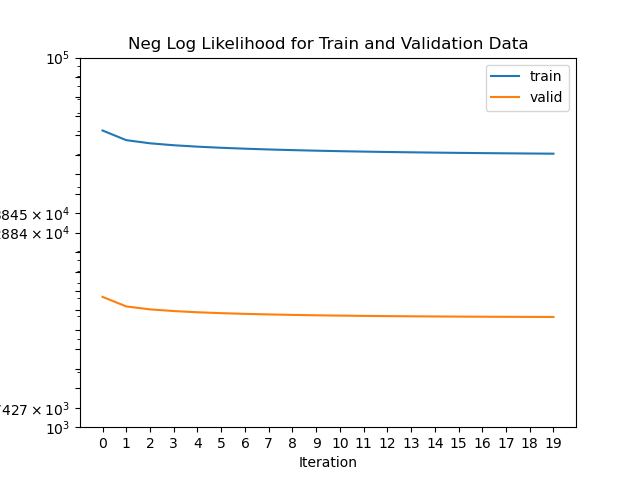
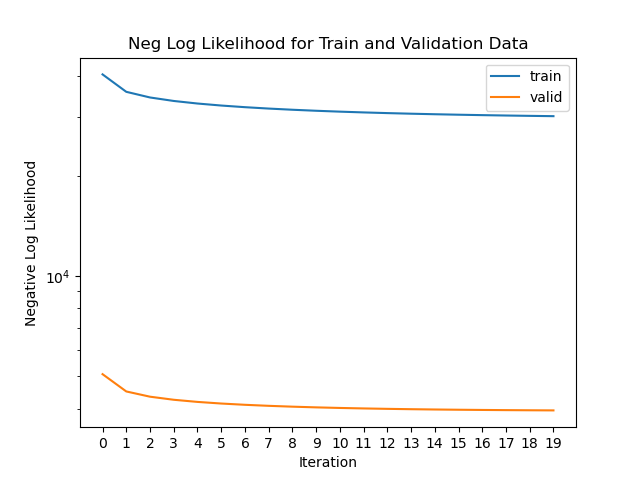
add figures

diff --git a/part_a/neural_network.py b/part_a/neural_network.py
@@ -177,36 +177,36 @@ def main():
     # Set model hyperparameters.
     # Q2c
     num_question = train_matrix.shape[1]
-    k_list = [10, 50, 100, 200, 500]
-    lr_list = [0.001, 0.01, 0.1]
-    num_epoch_list = [5, 20, 40]
-    fig, ax = plt.subplots(nrows=len(num_epoch_list), ncols=len(lr_list), figsize=(18,12))
-    for i, num_epoch in enumerate(num_epoch_list):
-        for j, lr in enumerate(lr_list):
-            for k in k_list:
-                model = AutoEncoder(num_question, k)
-                # Set optimization hyperparameters.
-                epochs, train_losses, val_accs = train(model, lr, train_matrix, zero_train_matrix,
-                  valid_data, num_epoch)
-
-                ax[i][j].plot(epochs, val_accs, label=f"K = {k}");
-                ax[i][j].set_xticks(np.arange(0, num_epoch, num_epoch//5));
-                ax[i][j].set_ylabel("Validation Accuracy %")
-                ax[i][j].set_title(f"Epoch: {num_epoch}, LR: {lr}", fontsize=10);
-                fig.savefig("../figs/Q3c.png");
-
-            ax[i][j].legend(loc='upper left', prop={'size': 6});
-    fig.savefig("../figs/Q3c.png");
+    # k_list = [10, 50, 100, 200, 500]
+    # lr_list = [0.001, 0.01, 0.1]
+    # num_epoch_list = [5, 20, 40]
+    # fig, ax = plt.subplots(nrows=len(num_epoch_list), ncols=len(lr_list), figsize=(18,12))
+    # for i, num_epoch in enumerate(num_epoch_list):
+    #     for j, lr in enumerate(lr_list):
+    #         for k in k_list:
+    #             model = AutoEncoder(num_question, k)
+    #             # Set optimization hyperparameters.
+    #             epochs, train_losses, val_accs = train(model, lr, train_matrix, zero_train_matrix,
+    #               valid_data, num_epoch)
+    #
+    #             ax[i][j].plot(epochs, val_accs, label=f"K = {k}");
+    #             ax[i][j].set_xticks(np.arange(0, num_epoch, num_epoch//5));
+    #             ax[i][j].set_ylabel("Validation Accuracy %")
+    #             ax[i][j].set_title(f"Epoch: {num_epoch}, LR: {lr}", fontsize=10);
+    #             fig.savefig("../figs/Q3c.png");
+    #
+    #         ax[i][j].legend(loc='upper left', prop={'size': 6});
+    # fig.savefig("../figs/Q3c.png");
 
     # Q2d
-    k_star = 100
+    k_star = 50
     lr_star = 0.01
-    epoch_star = 50
+    epoch_star = 40
     model_star = AutoEncoder(num_question, k_star)
     epochs, train_losses, val_accs = train(model_star, lr_star, train_matrix, zero_train_matrix,
                   valid_data, epoch_star)
 
-    fig, ax = plt.subplots(ncols=2, figsize=(12, 28));
+    fig, ax = plt.subplots(ncols=2, figsize=(30, 12));
     # Plot Train Loss
     ax[0].plot(epochs, train_losses, label="train loss");
     ax[0].set_title("Train Loss by Iteration");
@@ -219,28 +219,36 @@ def main():
     ax[1].set_xlabel("Epoch");
     ax[1].set_ylabel("Accuracy");
 
+    print("Validation Accuracy: ", val_accs[-1]);
+    print("Test Accuracy: ", evaluate(model_star, zero_train_matrix, test_data))
+
     fig.savefig("../figs/Q3d.png");
 
     # Q2e
     lamb_list = [0.001, 0.01, 0.1, 1]
-    fig, ax = plt.subplots(ncols=2, figsize=(12, 28));
+
+    fig, ax = plt.subplots(ncols=2, figsize=(30, 12));
     for lamb in lamb_list:
         model_star = AutoEncoder(num_question, k_star)
         epochs, train_losses, val_accs = train(model_star, lr_star, train_matrix, zero_train_matrix,
                                            valid_data, epoch_star, lamb)
-        ax[0].plot(epochs, train_losses, label=f"lamb={lamb}");
-        ax[1].plot(epochs, val_accs, label=f"lamb={lamb}");
+    #     ax[0].plot(epochs, train_losses, label=f"lamb={lamb}");
+    #     ax[1].plot(epochs, val_accs, label=f"lamb={lamb}");
+    #
+    # ax[0].set_title("Train Loss by Iteration");
+    # ax[0].set_xlabel("Epoch");
+    # ax[0].set_ylabel("Loss");
+    # ax[0].legend();
+    #
+    # ax[1].set_title("Validation Accuracy by Iteration");
+    # ax[1].set_xlabel("Epoch");
+    # ax[1].set_ylabel("Accuracy");
+    # ax[1].legend();
+    # fig.savefig("../figs/Q3e.png");
 
-    ax[0].set_title("Train Loss by Iteration");
-    ax[0].set_xlabel("Epoch");
-    ax[0].set_ylabel("Loss");
-    ax[0].legend();
+    print("Validation Accuracy: ", val_accs[-1]);
+    print("Test Accuracy: ", evaluate(model_star, zero_train_matrix, test_data))
 
-    ax[1].set_title("Validation Accuracy by Iteration");
-    ax[1].set_xlabel("Epoch");
-    ax[1].set_ylabel("Accuracy");
-    ax[1].legend();
-    fig.savefig("../figs/Q3e.png");
 
 
     #####################################################################

diff --git a/part_a/item_response.py b/part_a/item_response.py
@@ -176,11 +176,11 @@ def main():
     plt.ylabel("Negative Log Likelihood");
     plt.xlabel("Iteration");
     plt.xticks(np.arange(0, iterations, 1));
-    plt.yticks(np.logspace(3, 5, 20));
+    # plt.yticks(np.logspace(3, 5, 20));
     plt.title("Neg Log Likelihood for Train and Validation Data");
     plt.legend();
     plt.savefig("../figs/Q2c.png");
-    plt.show()
+    plt.show();
     #####################################################################
     #                       END OF YOUR CODE                            #
     #####################################################################
@@ -198,17 +198,17 @@ def main():
     print("Test Accuracy: ", test_score)
 
     # Part D
-
     selected_questions = np.array([100, 200, 300, 400, 500])
     for selected in selected_questions:
-        plt.plot(np.arange(0, len(theta)), sigmoid(theta - beta[selected]).reshape(-1), label=f"Question {selected}");
+        plt.plot(np.arange(0, len(theta)), sigmoid(theta - beta[selected]).reshape(-1), label=f"Question {selected}", linewidth=0.5);
     plt.ylabel("Probability");
     plt.xlabel("Theta");
     plt.xticks(np.arange(0, len(theta), 100));
     plt.title("Selected Questions Probability as a function of Theta");
     plt.legend();
-    plt.show();
     plt.savefig("../figs/Q2d.png");
+    plt.show();
+
 
     #####################################################################
     #                       END OF YOUR CODE                            #

diff --git a/part_a/ensemble.py b/part_a/ensemble.py
@@ -17,13 +17,13 @@ def knn(matrix, k):
 
 def ensemble_predict(data, knn_matrix, theta, beta, nn_zero_matrix, nn_model, threshold=0.5):
 
-    knn_preds = knn_predict(data, knn_matrix)
+    knn_preds = knn_predict(data, knn_matrix) #>= threshold
 
-    irt_preds = irt_predict(data, theta, beta)
+    irt_preds = irt_predict(data, theta, beta) #>= threshold
 
-    nn_preds = nn_predict(nn_zero_matrix, data, nn_model)
+    nn_preds = nn_predict(nn_zero_matrix, data, nn_model) #>= threshold
 
-    return ((nn_preds + irt_preds + knn_preds)/3) >= threshold
+    return ((knn_preds + irt_preds + nn_preds)/3) >= threshold
 
 
 def nn_predict(zero_data, valid_data, nn_model):
